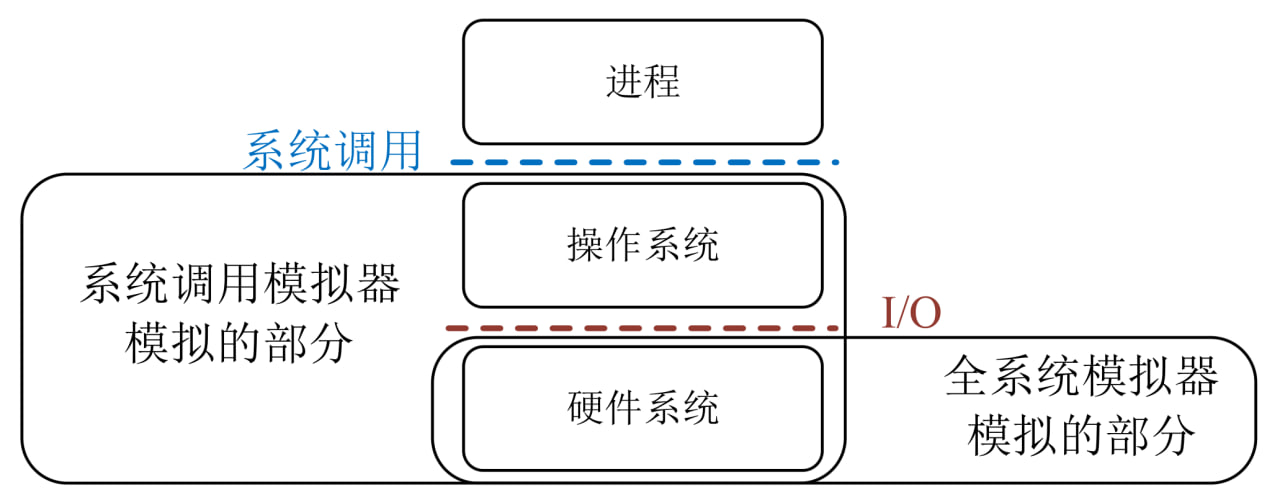
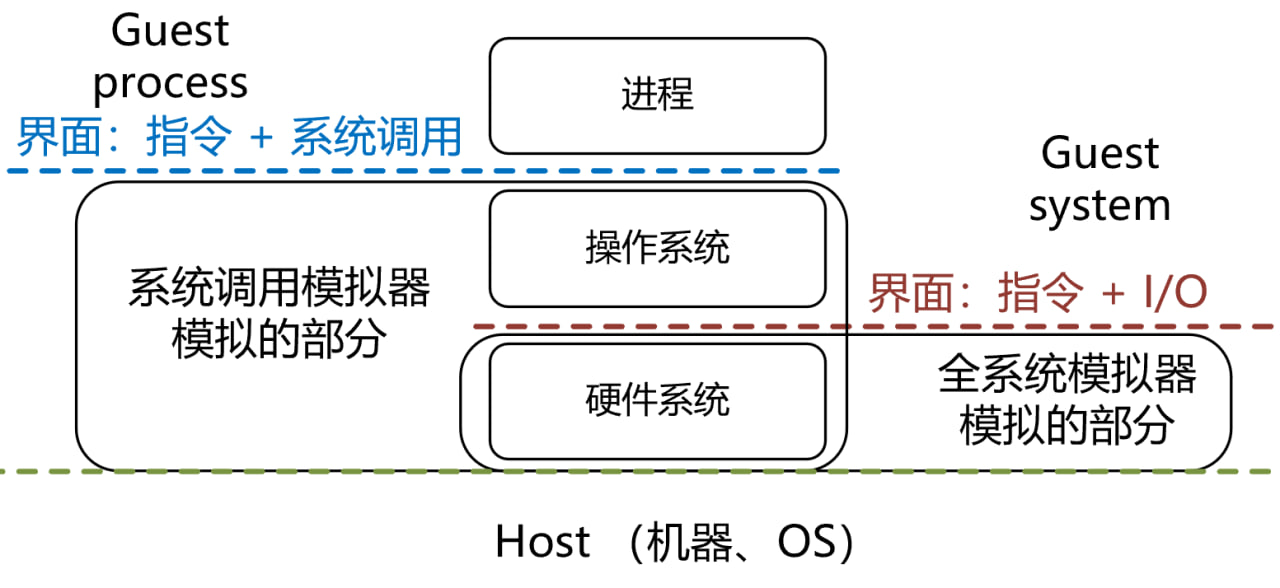
update pic

diff --git a/content/post/the-cost-of-fs/index.md b/content/post/the-cost-of-fs/index.md
@@ -3,7 +3,7 @@ title: 生成香山全系统负载和checkpoint的视频教程
 subtitle: 为全系统模拟而付出的代价
 
 # Summary for listings and search engines
-summary: 本文将会介绍全系统和系统调用模拟的概念，以及全系统模拟的视频教程的内容。
+summary: 最近，我们意识到让用户搞定香山处理器的仿真环境和负载程序是一件非常具有挑战的事情。为了让不同背景的用户更顺利地制作 SPEC CPU 2006 的负载和 Checkpoint，我们制作了一个视频教程。
 
 # Link this post with a project
 projects: []
@@ -49,22 +49,23 @@ categories:
 以GEM5模拟器的SE模式实现为例，GEM5劫持了各个指令集的系统调用指令，然后用C/C++代码在宿主机模拟了这些Linux的系统调用。
 如图所示，SE模拟器既实现了一部分硬件的功能（大部分指令的执行），又实现了一部分OS的功能（系统调用）。
 SE模拟器与应用交互的界面是**指令集**和**系统调用**。
-而在全系统（FS）模式下，模拟器模拟的仅仅是硬件系统，用户需要提供完整的系统镜像。
-模拟器与软件（操作系统+应用程序）交互的界面是**指令集**和**输入输出（I/O）**。
+而在全系统（FS）模式下，模拟器模拟的仅仅是硬件系统，为了实现操作系统的功能，用户需要提供完整的系统镜像。
+在FS模式下，模拟器与软件（操作系统+应用程序）交互的界面是**指令集**和**输入输出（I/O）**，
+模拟器没有“命令行参数”、“系统调用”等概念。
 
 ![全系统与系统调用模拟](./fs-vs-se.jpg)
 
 在常见的模拟器中，GEM5 和 QEMU 能同时支持FS和SE两种模式，
 GEM5 和 QEMU的开发者为此付出了大量的努力。
-但是在RTL仿真中实现SE模式几乎不可能，因为RTL仿真的目标是模拟硬件，
+但是在RTL仿真中实现SE模式近乎不可能，因为RTL仿真的目标是模拟硬件，
 可以支持SE的RTL必然是不可综合的。
 
-此外，全系统模式的也有其优势：1) 拥有完整Linux系统调用，可以运行各种大型程序；
+相对于SE模式，全系统模式的也有其优势：1) 只要用户打包好系统镜像，就拥有完整的系统调用，可以运行各种大型程序；
 2) 对硬件系统而言，可以准确地建模虚存系统、I/O带来的性能影响。
 而代价则是用户需要准备完整的系统镜像，其中镜像包括了bootloader、内核和应用程序。
-为了保证性能评估的准确性以及降低移植软件的难度，香山处理器和香山GEM5选择了全系统模式。
+综合考虑RTL仿真难以支持SE，并且为了保证性能评估的准确性，香山处理器和香山GEM5选择了全系统模式。
 
-我们发现全系统模拟对用户构成了阻碍：
+全系统模式确实对用户构成了阻碍：
 虽然我们提供了构建系统镜像的文档，并多次修改，但是我们发现用户仍然会遇到各种问题。例如：
 - 有的报错与指令集扩展或者操作系统ABI有关，在我们团队内部从来没有遇到过，即使是我们自己也需要较长时间解决。
 - 用户对全系统模拟的概念不理解，希望从模拟器的命令行直接给应用程序传命令行参数（其实只有SE模拟器支持）。
@@ -72,12 +73,17 @@ GEM5 和 QEMU的开发者为此付出了大量的努力。
 - 用户编译应用程序的参数不恰当。
 
 究其原因，一方面是构建镜像的复杂性不低，容易出现问题；另一方面是香山用户的知识背景非常多样。
-为了适应更多用户，我们制作了本次视频教程，帮助用户生成全系统模拟的SPECCPU和checkpoint。
+为了让不同背景的用户更顺利地制作全系统负载和checkpoint，
+我们制作了本次视频教程，帮助用户生成全系统模拟的SPECCPU和checkpoint。
 该视频的内容包括
 - 构建RISC-V的Linux系统和bootloader
 - 编译SPECCPU 2006
 - 将SPECCPU 2006和Linux系统打包生成镜像
 - 用NEMU模拟器运行镜像，进行SimPoint profiling 和生成checkpoint
+
+视频教程地址：https://www.bilibili.com/video/BV1Wr421h7XN/
+
+视频中所使用的虚拟机镜像：https://pan.baidu.com/s/1G6UU4J-tQwJhEXHaxqJ-6w?pwd=qes7
 
 责任声明：
 - 本视频教程仅适用于香山处理器全系统环境的SPECCPU 2006的checkpoint构建，提供有限的社区支持。
